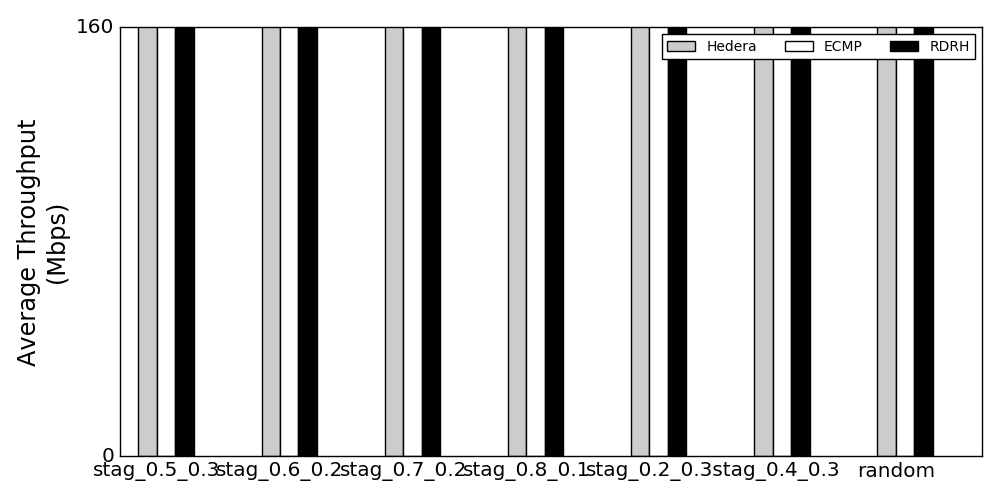
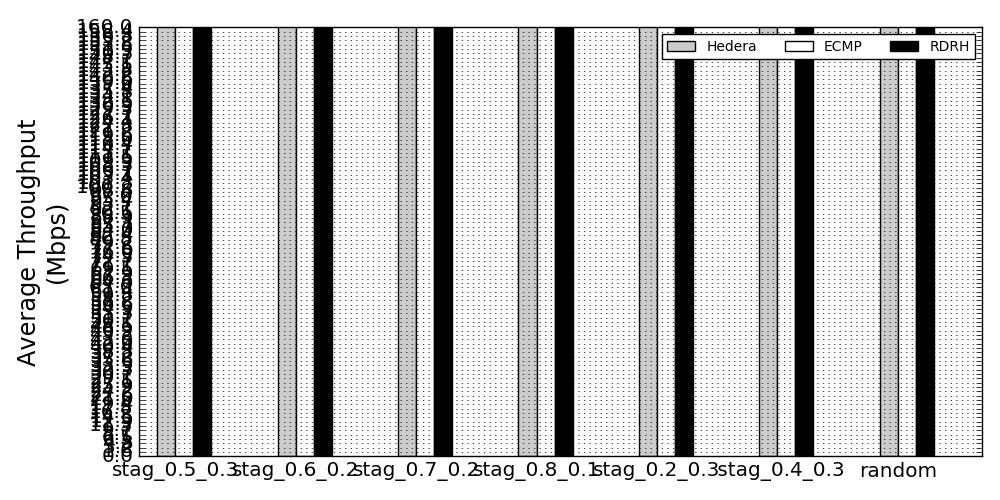
Experimeto k=4-1000

diff --git a/plot_results.py b/plot_results.py
@@ -405,7 +405,7 @@ def plot_results():
 	plt.xticks(index + num_bar / 3.0 * bar_width, traffics_brief, fontsize='large')
 	plt.ylabel(u'Average Throughput\n(Mbps)', fontsize='x-large')
 	plt.ylim(0, full_bisection_bw)
-	plt.yticks(np.linspace(0, full_bisection_bw, 2), fontsize='large')
+	plt.yticks(np.linspace(0, full_bisection_bw, 100), fontsize='large')
 	plt.legend(loc='upper right', ncol=len(apps), fontsize='small')
 	plt.grid(axis='y')
 	plt.tight_layout()
